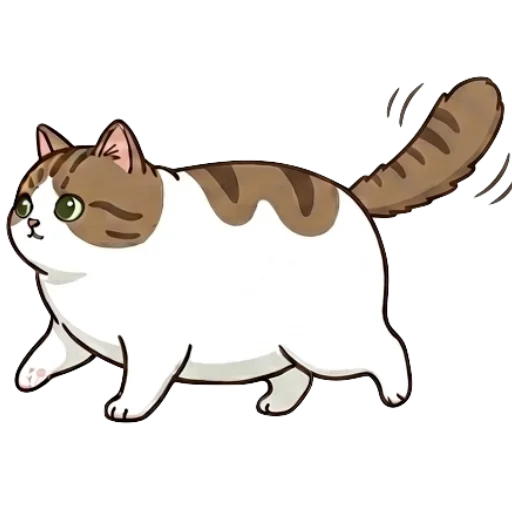
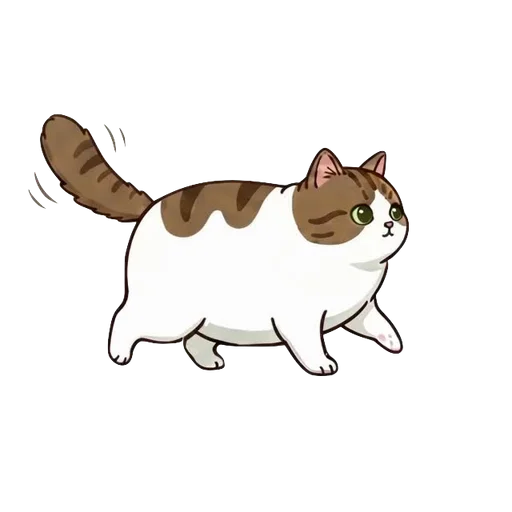
fix(scroll-cat): 走路貓改用新素材七幀，修正朝向、尺寸與地面線
換上新的走路圖後出現三個問題，一併修掉：

- 朝向相反：舊圖面向左，程式把「往右走要水平翻轉」寫死在邏輯裡。
  新圖面向右，於是往下捲時反被翻成面向左。改成往左走才翻面。
- 第 4 幀之後不會播：幀數其實寫在三個地方（JS 的取餘數、JSX 的 img、
  CSS 的 data-frame 規則），只改 JSX 的話 JS 仍只循環三幀；而且 CSS
  沒有對應規則的幀會全部停在 opacity: 0，貓會整隻消失。
  改用 RUN_FRAMES 常數並補齊 CSS，兩邊的相依關係寫進註解。
- 停下來會突然放大：走路圖的畫布留白較多，contain 進 100px 框後貓小一號
  （頭圍差約 1.3 倍），腳底也比 wait/sleep 高約 12%。以 transform 補正
  比例與地面線，實測腳底線差距 0px。

素材同時 PNG → WebP：單張約 130KB 降到 18KB，七幀合計約 800KB → 130KB。
轉檔設定併入既有的 scripts/optimize-images.mjs。

Claude-Session: https://claude.ai/code/session_01K3S66Ph5ojnKmonvdbce1s

Changed region(s): [[0.0, 0.125, 1.0, 0.8438]]

diff --git a/src/components/play/ScrollCat.tsx b/src/components/play/ScrollCat.tsx
@@ -4,16 +4,21 @@ import OnigiriEgg from "../OnigiriEgg";
 import run1 from "../../assets/images/onigiri/run-cat-1.webp";
 import run2 from "../../assets/images/onigiri/run-cat-2.webp";
 import run3 from "../../assets/images/onigiri/run-cat-3.webp";
+import run4 from "../../assets/images/onigiri/run-cat-4.webp";
+import run5 from "../../assets/images/onigiri/run-cat-5.webp";
+import run6 from "../../assets/images/onigiri/run-cat-6.webp";
+import run7 from "../../assets/images/onigiri/run-cat-7.webp";
 import sleepCat from "../../assets/images/onigiri/sleep-cat.webp";
 import waitCat from "../../assets/images/onigiri/wait-cat.webp";
 
 // 捲動陪跑 mascot：Onigiri 沿著視窗底線走動，位置對應頁面捲動進度
 // （捲到頂 → 最左、捲到底 → 最右）。三種姿態：
-//   頂部靜止 → 睡覺（sleep-cat）、捲動中 → 走路三幀循環（run 1→2→3）、
-//   底部靜止 → 坐在碗邊等（wait-cat）。走路圖原圖面向左，往右走時水平翻轉。
+//   頂部靜止 → 睡覺（sleep-cat）、捲動中 → 走路七幀循環（run 1→…→7→1）、
+//   底部靜止 → 坐在碗邊等（wait-cat）。走路圖原稿面向右，往左走時水平翻轉。
 // 純裝飾（aria-hidden）、pointer-events:none、prefers-reduced-motion 時不跑動畫。
 
-const CAT_W = 100; // 貓框寬高（px，圖為 500×500 正方形）
+const RUN_FRAMES = 7; // 走路循環幀數。改這裡就要同步 index.css 的 data-frame 規則
+const CAT_W = 100; // 貓框寬高（px，圖為正方形）
 const RIGHT_GAP = 24; // 右側保留給飼料碗：捲到底時坐等貓湊到碗邊
 const LEFT_PAD = 8;
 // 整趟（最左↔最右）大約換幾次幀。手機可走範圍短，固定 px 步幅會換不了幾幀
@@ -70,8 +75,8 @@ export default function ScrollCat() {
 
     let curX = LEFT_PAD + progress() * range();
     let targetX = curX;
-    let facing = 1; // 1 面向左（原圖）、-1 翻面向右
-    let frameIdx = 0; // 0..2 對應 run 1/2/3
+    let facing = 1; // 1 = 原圖朝向（面向右）、-1 = 水平翻轉（面向左）
+    let frameIdx = 0; // 0..RUN_FRAMES-1，對應 run-cat-1..7
     let stride = 0;
     let bob = 0;
 
@@ -85,7 +90,7 @@ export default function ScrollCat() {
       if (p <= 0.01) {
         pose.dataset.pose = "sleep";
       } else if (p >= 0.99) {
-        facing = 1; // 坐等貓用原圖朝向（面左），不翻轉
+        facing = 1; // 坐等貓（wait-cat）用原圖朝向，不翻轉
         pose.dataset.pose = "wait";
       } else {
         pose.dataset.pose = "idle";
@@ -124,9 +129,9 @@ export default function ScrollCat() {
       curX += move;
       const speed = Math.abs(move) / Math.max(dt, 0.001);
 
-      if (dx > 1)
-        facing = -1; // 往右走 → 翻面
-      else if (dx < -1) facing = 1;
+      // 走路圖原稿面向右，所以往右走用原圖、往左走才翻面
+      if (dx > 1) facing = 1;
+      else if (dx < -1) facing = -1;
 
       // 抵達目標 → 收尾擺出靜止姿態，停 loop 省電
       if (adx < 0.5) {
@@ -145,7 +150,7 @@ export default function ScrollCat() {
         const strideLen = clamp(range() / STRIDE_STEPS, 6, 17);
         stride += Math.abs(move);
         if (stride >= strideLen) {
-          frameIdx = (frameIdx + 1) % 3;
+          frameIdx = (frameIdx + 1) % RUN_FRAMES;
           stride = 0;
         }
         bob = -Math.abs(Math.sin(performance.now() / 90)) * 2;
@@ -250,6 +255,38 @@ export default function ScrollCat() {
                 height={512}
                 draggable={false}
                 className="cat-sprite cat-run-3"
+              />
+              <img
+                src={run4}
+                alt=""
+                width={512}
+                height={512}
+                draggable={false}
+                className="cat-sprite cat-run-4"
+              />
+              <img
+                src={run5}
+                alt=""
+                width={512}
+                height={512}
+                draggable={false}
+                className="cat-sprite cat-run-5"
+              />
+              <img
+                src={run6}
+                alt=""
+                width={512}
+                height={512}
+                draggable={false}
+                className="cat-sprite cat-run-6"
+              />
+              <img
+                src={run7}
+                alt=""
+                width={512}
+                height={512}
+                draggable={false}
+                className="cat-sprite cat-run-7"
               />
               <img
                 src={waitCat}

diff --git a/src/index.css b/src/index.css
@@ -434,7 +434,7 @@
     animation: cat-breathe 3.2s ease-in-out infinite;
   }
 
-  /* 捲動陪跑貓 sprite：5 張疊在同一框，依 data-pose / data-frame 切換顯示。
+  /* 捲動陪跑貓 sprite：9 張（睡 1 + 走路 7 + 坐等 1）疊在同一框，依 data-pose / data-frame 切換顯示。
      位移／翻面由 JS rAF 寫在外層 transform。 */
   .cat-sprites {
     position: relative;
@@ -470,9 +470,32 @@
   .cat-sprites[data-pose="idle"] .cat-run-1 {
     opacity: 1;
   }
+  /* 走路七幀的畫布留白比睡覺／坐等那兩張多，同樣 contain 進 100px 框後
+     貓會小一號（頭圍差約 1.3 倍），腳底也高出約 12%（73.5% vs 85.7%），
+     停下來換姿態時就會「突然放大又落地」。這裡把走路幀補正回同一個比例與地面線：
+       transform-origin 設在走路圖的腳底(73.5%) → 放大時腳不會離地
+       再 translateY 12.2% → 腳底對齊 wait/sleep 的 85.7%
+     改的是呈現而非原稿，數值由量測而來，不動素材本身。 */
+  .cat-run-1,
+  .cat-run-2,
+  .cat-run-3,
+  .cat-run-4,
+  .cat-run-5,
+  .cat-run-6,
+  .cat-run-7 {
+    transform-origin: center 73.5%;
+    transform: translateY(12.2%) scale(1.3);
+  }
+
+  /* 每一幀都要有對應規則：JS 的 RUN_FRAMES 若超出這裡涵蓋的範圍，
+     那幾幀會找不到規則而全部停在 opacity: 0，貓會整隻消失。 */
   .cat-sprites[data-pose="run"][data-frame="1"] .cat-run-1,
   .cat-sprites[data-pose="run"][data-frame="2"] .cat-run-2,
-  .cat-sprites[data-pose="run"][data-frame="3"] .cat-run-3 {
+  .cat-sprites[data-pose="run"][data-frame="3"] .cat-run-3,
+  .cat-sprites[data-pose="run"][data-frame="4"] .cat-run-4,
+  .cat-sprites[data-pose="run"][data-frame="5"] .cat-run-5,
+  .cat-sprites[data-pose="run"][data-frame="6"] .cat-run-6,
+  .cat-sprites[data-pose="run"][data-frame="7"] .cat-run-7 {
     opacity: 1;
   }
 
